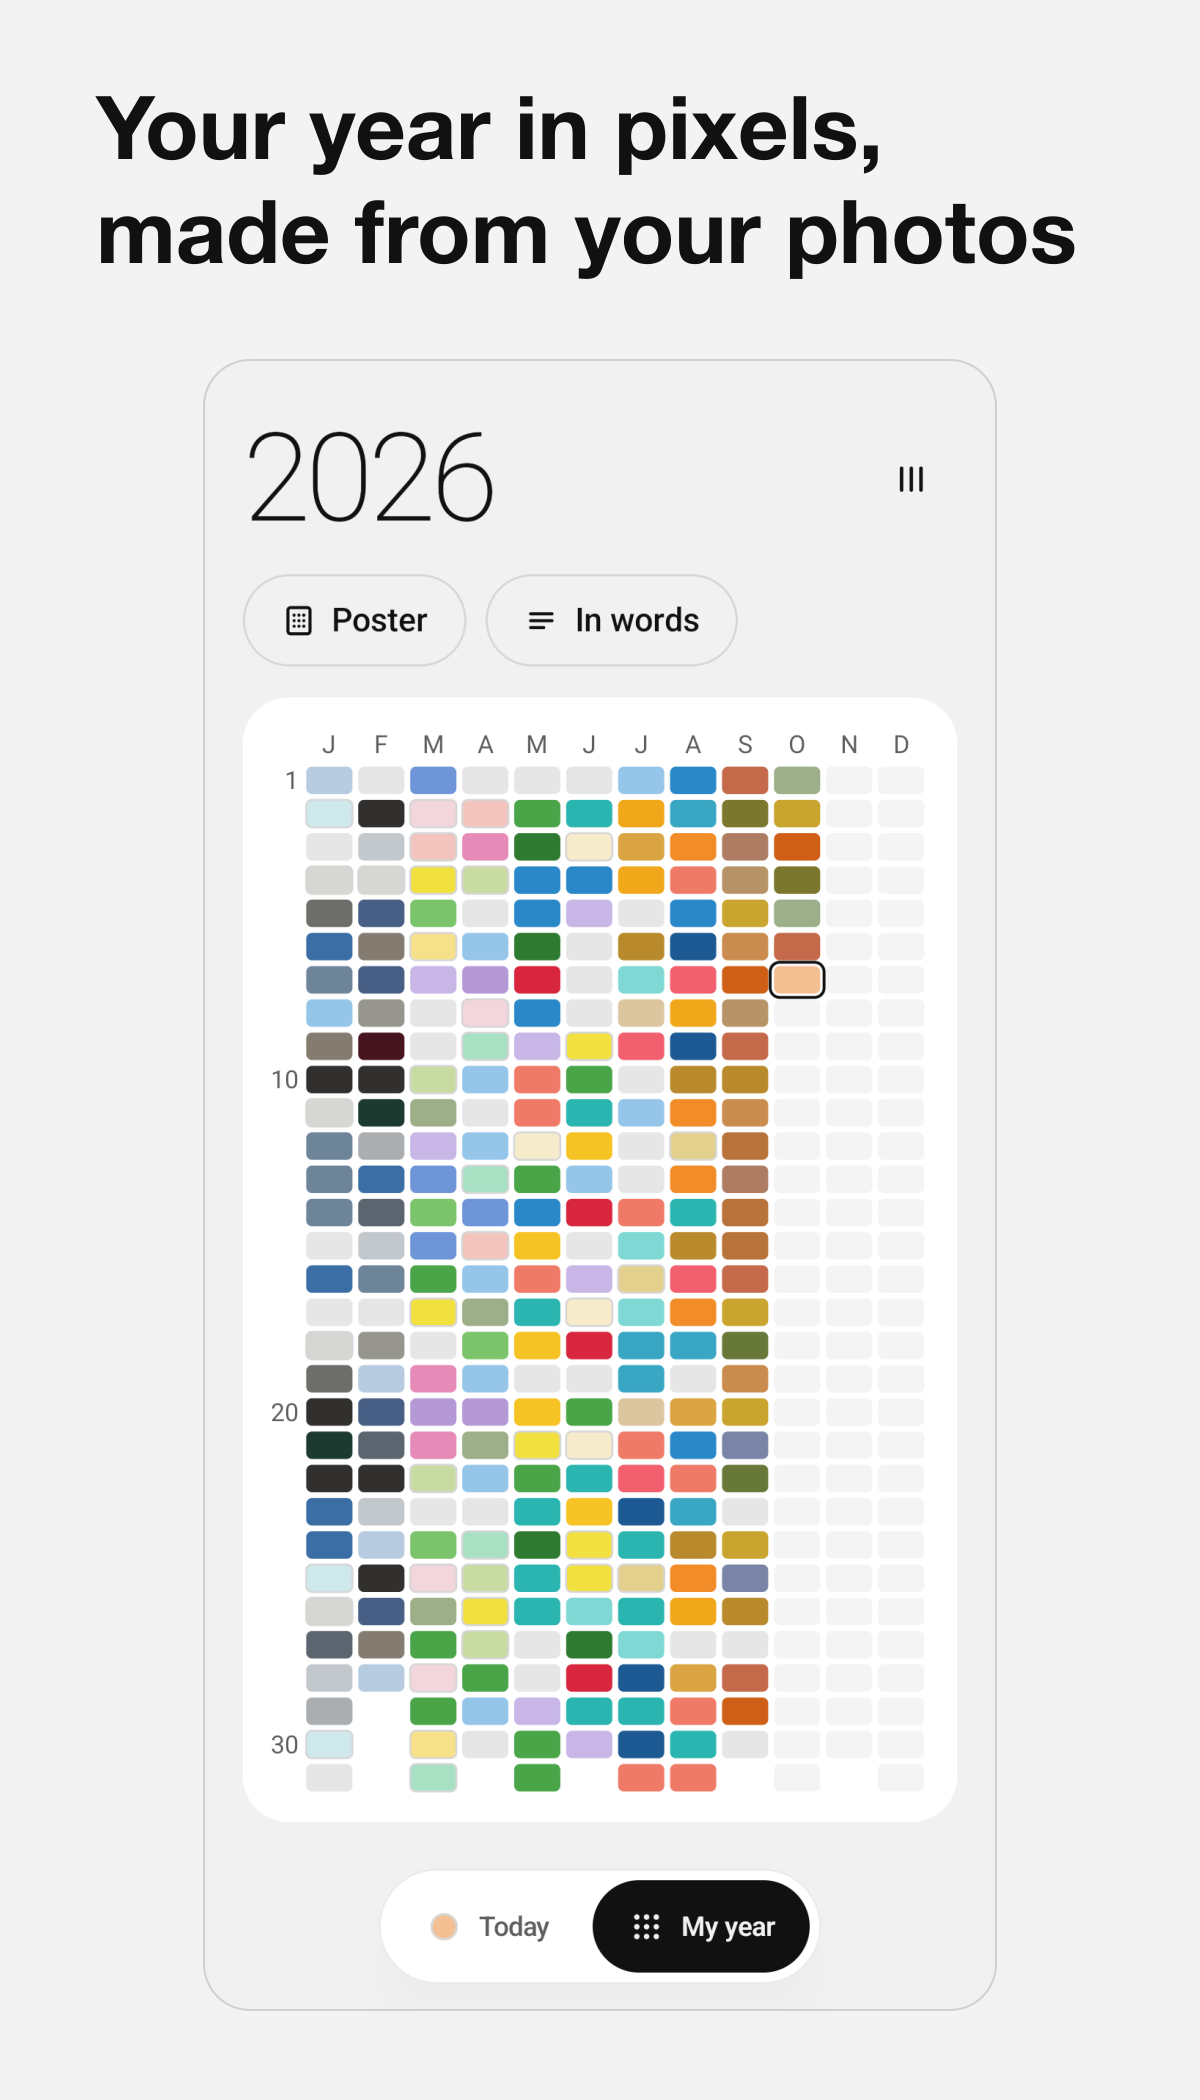
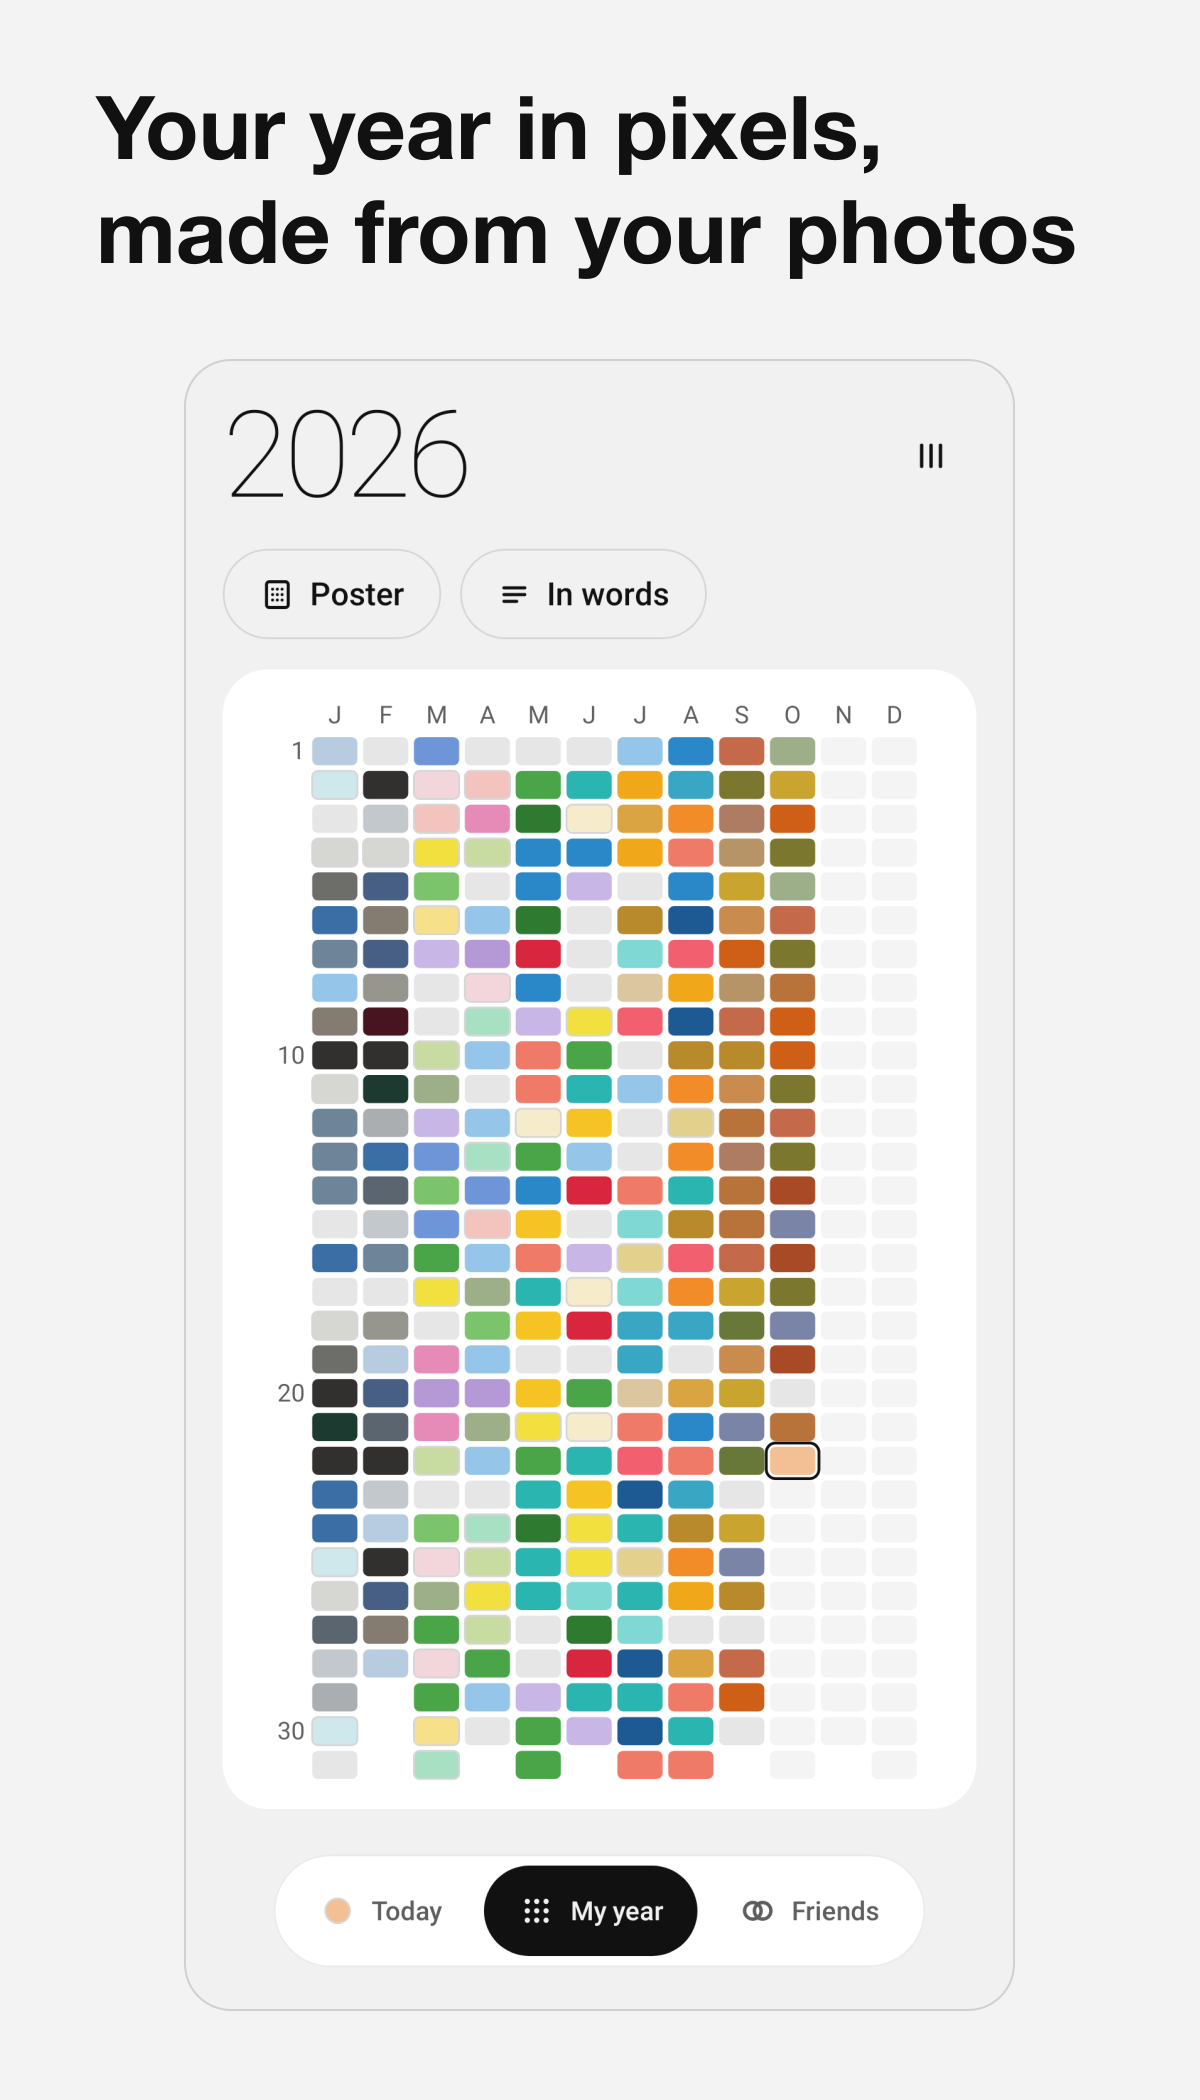
store: capturas de Play de en-US y es-ES dibujadas con la 1.2
Eran las ultimas sacadas de dispositivo, del emulador con la 1.0: sin la firma
en la tarjeta y el poster, y sin el selector de cuatro estilos. Se dibujan como
las de los otros once idiomas, cinco por ficha (sin la de widgets, que es de
iOS), para que Play tenga un solo tipo de captura en los trece. iphone.py ya no
deja fuera a en-US y es-ES del set de Play.

diff --git a/tools/store/iphone.py b/tools/store/iphone.py
@@ -6,9 +6,8 @@ Usage: python3 tools/store/iphone.py <idioma> [...]   (any of the 13 of TITULARE
 For each language: writes the demo year (tools/demo/generar.py) and the sunset photo
 (tools/demo/atardecer.py), draws the six raw scenes at 1320x2580 (the 440x860 pt safe area at 3x),
 puts back the status bar and home indicator margins (62 and 34 pt) so they are 1320x2868 like a
-simulator capture, and frames them with capturas.py into store/screenshots/iphone/<idioma>/. Except en-US and es-ES, whose
-Play sets come from the emulator, the same raw scenes also make the Play set (play-dibujado: five
-scenes, the widgets one is iOS-only).
+simulator capture, and frames them with capturas.py into store/screenshots/iphone/<idioma>/. The same
+raw scenes also make the Play set (play-dibujado: five scenes, the widgets one is iOS-only).
 Needs Pillow and rsvg-convert. Detail: store/capturas.md.
 """
 import pathlib
@@ -54,8 +53,7 @@ def main():
         for scene in SCENES:
             pad(DATA / (scene + ".png"), raw / (scene + ".png"))
         run(sys.executable, str(ROOT / "tools" / "store" / "capturas.py"), str(raw), lang, "iphone")
-        if lang not in ("en-US", "es-ES"):
-            run(sys.executable, str(ROOT / "tools" / "store" / "capturas.py"), str(raw), lang, "play-dibujado")
+        run(sys.executable, str(ROOT / "tools" / "store" / "capturas.py"), str(raw), lang, "play-dibujado")
 
 
 if __name__ == "__main__":

diff --git a/store/capturas.md b/store/capturas.md
@@ -1,10 +1,10 @@
 # Capturas de las fichas
 
-Seis escenas, las mismas en las dos tiendas y en los trece idiomas. Las de Play de **en-US y es-ES**
-salen del emulador; todas las demas (las de iPhone de los trece idiomas y las de Play de los otros
-once) se dibujan con la interfaz de la version (secciones 5 y 7), cada una con su idioma en la
-interfaz y en el titular. Se sacan con el año de
-demostracion, nunca con uno real.
+Seis escenas, las mismas en las dos tiendas y en los trece idiomas (cinco en Play: la de widgets es
+de iOS). Desde el 22-10-2026 todas se dibujan con la interfaz de la version (secciones 5 y 7), cada
+una con su idioma en la interfaz y en el titular; el emulador y el simulador (secciones 1 y 6) quedan
+para cuando haga falta un set de dispositivo entero. Se sacan con el año de demostracion, nunca con
+uno real.
 
 **Orden de la ficha (21-10-2026):** primero la rejilla de Mi año, con "year in pixels" en el
 titular, porque es lo que busca quien llega por esa frase y lo primero que ve en los resultados;
@@ -22,13 +22,14 @@ Herramientas:
 - `tools/store/capturas.py`: el marco de Purl, con las seis escenas de abajo.
 - `tools/store/widgets.py`: la escena de los widgets, limpia.
 - Topes y subida de las dos fichas: `listings.yml`, con `tienda/` de `BaltaJmn/ci` (`store/ci.md`).
-- `tools/store/iphone.py`: las seis de iPhone sin Mac, de principio a fin (sección 5).
+- `tools/store/iphone.py`: las seis de iPhone y las cinco de Play, sin dispositivo, de principio a fin (sección 5).
 - `tools/demo/atardecer.py`: la foto de la escena 01.
 
 ## 1. Tamaños
 
 | Destino | Dispositivo | Captura cruda | Imagen final |
 |---|---|---|---|
+| `play-dibujado` | `tools/store/iphone.py` (sección 5) | 1320x2868 | 1200x2100 PNG |
 | `play` | Emulador Pixel 8, API 36 | 1080x2400 | 1200x2100 PNG |
 | `iphone` | `tools/store/iphone.py` (sección 5); el simulador iPhone 17 Pro Max, sección 6 | 1320x2868 | 1320x2868 PNG (6,9") |
 
@@ -167,9 +168,8 @@ iOS y en Android no se parece, asi que Play no la lleva). Cada ficha tiene un so
 las de estos idiomas, todas dibujadas. En la interfaz dibujada se ve la pestaña Amigos (la 1.2).
 Las once dibujadas se rehicieron el 22-10-2026 con la 1.2.3: el póster (06) enseña el selector de cuatro
 estilos en dos filas y la tarjeta (04) y el póster llevan la firma "Chroma: Color Year in Pixels". Las de
-iPhone de en-US y es-ES se dibujaron igual ese mismo día (`iphone.py en-US es-ES`; antes eran del
-simulador, de la 1.0). Las de Play de en-US y es-ES, del emulador, siguen con la tarjeta y el póster de
-antes; rehacerlas pide el set de seis entero en el emulador (sección 1), por la regla de arriba.
+iPhone y de Play de en-US y es-ES se dibujaron igual ese mismo día (`iphone.py en-US es-ES`; antes
+eran del simulador y del emulador, de la 1.0), así que Play lleva ya las cinco dibujadas en los trece.
 
 `StoreScreenshots.kt` pone en `Social` un cliente de Supabase sobre memoria (`quietSocial`): el real
 no se puede construir en una JVM sin ajustes de Android, y Hoy pregunta si hay cuenta. Sin eso el
